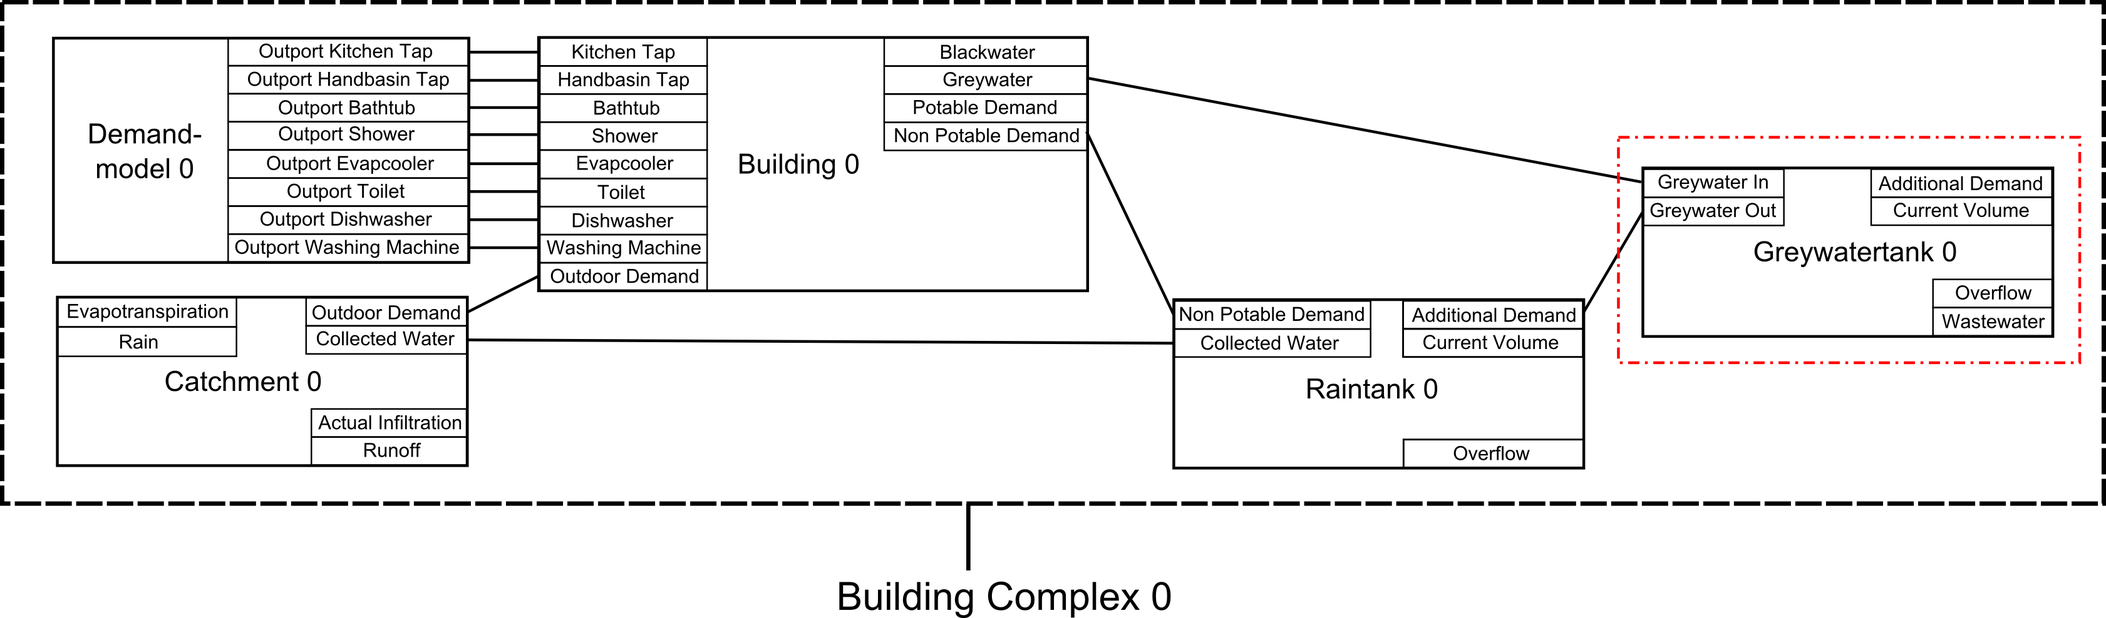
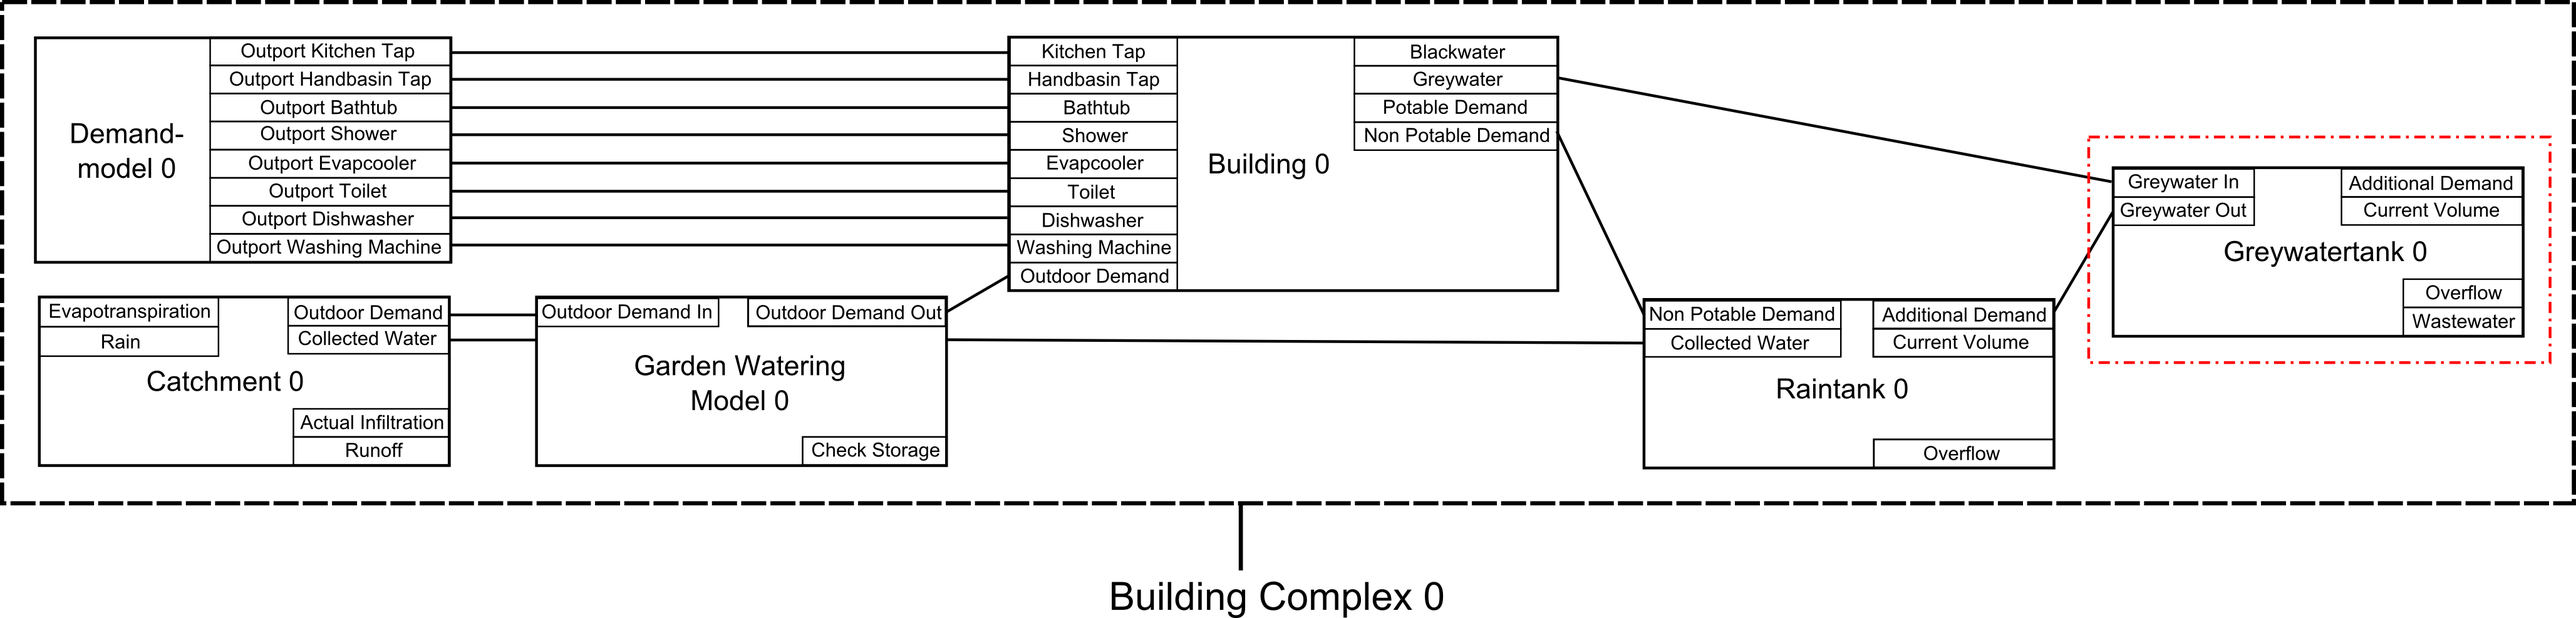
Update 6

diff --git a/doc/Model Set Up/XML - Creator.md b/doc/Model Set Up/XML - Creator.md
@@ -10,6 +10,7 @@ Basic features:
       - Greywaterreservoir Level
       - Stormwaterreservoir Level
       - Supply Level
+	  
  - basic and selective flowmeter implemetation
  # 
  - ...
@@ -23,9 +24,11 @@ Basic features:
 | :------------ |:---------------:|:---------------:|  	
 | Supplyvector      | Connectionlist | - |
 | Catchment Attributevector | Nodelist |  Catchment  |
-| Greywatertank Attributevector | Nodelist | Greywatertank   |
-| Stormwaterreservoir Attributevector | Nodelist | Stormwaterreservoir   |   
-| Rainwatertank Attributevector | Nodelist | Rainwatertank   |
+| Greywater Tank Attributevector | Nodelist | Greywater Tank   |
+| Greywater Reservoir Attributevector | Nodelist | Greywater Reservoir   |
+| Stormwater Reservoir Attributevector | Nodelist | Stormwater Reservoir   |   
+| Rainwater Tank Attributevector | Nodelist | Rainwater Tank   |
+| Garden Watering Attributevector | Nodelist | Garden Watering Module   |
 | Building Demand Attributevector | Nodelist | Demand Model  |  
 
 
@@ -180,15 +183,16 @@ To set the Catchments features this vectors ist used.
         Weighting Coefficient pA = [-]
 		Selected Model = [string]
         
+		
 For more detailed information regarding the input, output, etc. please check the
-[Catchment Description File](https://github.com/ChristianF88/CD3Waterbalance/blob/master/doc/catchment.md)
+[Catchment Description File](https://github.com/ChristianF88/CD3Waterbalance/blob/master/doc/CityDrain%20Building%20Blocks/Catchment%20Addon.md)
 
 
 <br>
 
-> ### Greywatertank Attributevector
+> ### Greywater Tank Attributevector
 
-This vector is responsible for setting the Greywatertanks/Greywaterreservoirs properties.
+This vector is responsible for setting the Greywatertanks properties.
 
 	Greywatertank Attributevector = [Greywatertankvector_0, Greywatertankvector_1, ..., Greywatertankvector_n]
     
@@ -199,12 +203,33 @@ This vector is responsible for setting the Greywatertanks/Greywaterreservoirs pr
         Yield of Treatment = [-]
         Storage Volume = [m^3]
 
+		
 For more detailed information regarding the input, output, etc. please check the
-[Greywatertank Description File](https://github.com/ChristianF88/CD3Waterbalance/blob/master/doc/greywatertank.md)
+[Greywatertank Description File](https://github.com/ChristianF88/CD3Waterbalance/blob/master/doc/CityDrain%20Building%20Blocks/Greywater%20Tank%20Addon.md)
 
 <br>
 
-> ### Stormwaterreservoir Attributevector
+
+> ### Greywater Reservoir Attributevector
+
+This vector is responsible for setting the Greywaterreservoirs properties.
+
+	Greywaterreservoir Attributevector = [Greywaterreservoirvector_0, Greywaterreservoirvector_1, ..., Greywaterreservoirvector_n]
+    
+    Greywaterreservoirvector =[Yield of Treatment, Storage Volume]
+    
+    Units:
+    	
+        Yield of Treatment = [-]
+        Storage Volume = [m^3]
+
+		
+For more detailed information regarding the input, output, etc. please check the
+[Greywaterreservoir Description File](https://github.com/ChristianF88/CD3Waterbalance/blob/master/doc/CityDrain%20Building%20Blocks/Greywater%20Reservoir%20Addon.md)
+
+<br>
+
+> ### Stormwater Reservoir Attributevector
 
 This vector is responsible for setting the Stormwaterreservoirs properties.
 
@@ -217,13 +242,14 @@ This vector is responsible for setting the Stormwaterreservoirs properties.
         Yield of Treatment = [-]
         Storage Volume = [m^3]
 
+		
 For more detailed information regarding the input, output, etc. please check the
-[Stormwaterreservoirs Description File](https://github.com/ChristianF88/CD3Waterbalance/blob/master/doc/stormwaterreservoir.md)
+[Stormwaterreservoirs Description File](https://github.com/ChristianF88/CD3Waterbalance/blob/master/doc/CityDrain%20Building%20Blocks/Stormwater%20Reservoir%20Addon.md)
 
 
 <br>
 
-> ### Rainwatertank Attributevector
+> ### Rainwater Tank Attributevector
 
 This vector contains the properties of all raintanks.
 
@@ -235,11 +261,41 @@ This vector contains the properties of all raintanks.
     
     	Storage Volume = [m^3]
     
+	
 For more detailed information regarding the input, output, etc. please check the
-[Rainwatertank Description File](https://github.com/ChristianF88/CD3Waterbalance/blob/master/doc/raintank.md)
+[Rainwatertank Description File](https://github.com/ChristianF88/CD3Waterbalance/blob/master/doc/CityDrain%20Building%20Blocks/Rainwater%20Tank%20Addon.md)
 
 
 <br>
+
+
+> ### Garden Watering Attributevector
+
+This vector contains the properties of all Garden Watering Modules.
+
+	Garden Watering Attributevector = [Gardenwateringvector_0, Gardenwateringvector_1, ..., Gardenwateringvector_n]
+    
+    Gardenwateringvector =[Average Watering Frequency, Deviation of Frequency, Maximal Watering Flow Rate, Smart Watering Start Time End Time, Watering Method]
+	
+    Units:
+    
+    	Average Watering Frequency = [d]
+		Deviation of Frequency = [d]
+		Maximal Watering Flow Rate = [L/min] 
+		Smart Watering Start Time End Time = [hh,hh] 
+		Watering Method = [String]
+		
+	For example:
+		
+		Garden Watering Attributevector = [[7,2,22,[18,6],"Smart Watering"],[14,5,18,[20,4],"Normal Watering"]]
+    
+	
+For more detailed information regarding the input, output, etc. please check the
+[Garden Watering Module Description File](https://github.com/ChristianF88/CD3Waterbalance/blob/master/doc/CityDrain%20Building%20Blocks/Garden%20Watering%20Addon.md)
+
+
+<br>
+
 
 > ### Building Demand Attributevector
 
@@ -248,7 +304,7 @@ A Buildings Water Demand depends on the number of units it consits out of. Furth
 	Building Demand Attributevector = [Buildingdemandvector_0, Buildingdemandvector_1, ..., Buildingdemandvector_n]
     
     Buildingdemandvector = [[number of people in residential unit 1, number of people in residential unit 2, ..., number of people in residential unit n],
-    						[number of people in commercial unit 1, number of people in commercial unit 2, ..., number of people in commercial unit n]]
+    						[number of people in commercial unit 1, number of people in commercial unit 2, ..., number of people in commercial unit n], Select Model]
 	
     
     length(Buildingdemandvector[0]) = number of residential units in building
@@ -258,10 +314,12 @@ A Buildings Water Demand depends on the number of units it consits out of. Furth
     Buildingdemandvector[0][i] = number of people in residential unit i
     
     Buildingdemandvector[1][i] = number of people in commercial unit i
+	
+	Select Model = [String]
     
     For example:
     
-    	Building Demand Attributevector = [[[4,5,2],[2]], [[6],[0]]]
+    	Building Demand Attributevector = [[[4,5,2],[2], 'Stochastic Model'], [[6],[0],'Stochastic Model']]
         
         The vector decribes 2 buildings. The first building consists out of 4 units. 3 residential and 1 commercial units.
         The first residential unit has 4 people living in it, the second one has 5 occupants and 2 people live in the 3rd 
@@ -270,7 +328,7 @@ A Buildings Water Demand depends on the number of units it consits out of. Furth
     
 
 For more detailed information regarding the input, output, etc. please check the
-[Demand Model Description File](https://github.com/ChristianF88/CD3Waterbalance/blob/master/doc/demandmodel.md)
+[Demand Model Description File](https://github.com/ChristianF88/CD3Waterbalance/blob/master/doc/CityDrain%20Building%20Blocks/Demand%20Model%20Addon.md)
 
 
 <br>
@@ -297,7 +355,7 @@ City Drain 3 need some basic information regarding the Simulation Setup.
 
 > ### Needtohaveinputs Vector
 
-This vector takes care of the input information for both [File Readers](https://github.com/ChristianF88/CD3Waterbalance/blob/master/doc/file_reader.md) and the [Pattern Implementer](https://github.com/ChristianF88/CD3Waterbalance/blob/master/doc/pattern_implementer.md). 
+This vector takes care of the input information for both [File Readers](https://github.com/ChristianF88/CD3Waterbalance/blob/master/doc/CityDrain%20Building%20Blocks/File%20Reader%20Addon.md) and the [Pattern Implementer](https://github.com/ChristianF88/CD3Waterbalance/blob/master/doc/CityDrain%20Building%20Blocks/Pattern%20Implementer%20Addon.md). 
 
 	Needtohaveinputs Vector = [Path of Rain File, Path of Evapotranspiration File, average Time of when the Sun is at its Zenith, average Time of Sundown]
     

diff --git a/doc/User Guide.md b/doc/User Guide.md
@@ -1,9 +1,11 @@
 # User Guide
 
-This text is supposed to give a short introduction for working with City Drain 3 using especially for the DAnCE4Water designed Python Addons. A detailled description to the City Drain software can be found [here](http://www.uibk.ac.at/umwelttechnik/teaching/phd/diss_achleitner.pdf).
+## Modules
 
-To be able to simulate urban water cycles in City Drain a few additonal modules were programmed.
-The folder _City Drain Building Blocks_  contains all addons programmed. Depending on how many modules are being used a the complexity of the built water system reaches from simple to very compley. The following table shows the programmed modules and their function.
+This text is supposed to give a short introduction for working with City Drain 3 using especially for the DAnCE4Water designed Python Addons. A detailed description to the City Drain software can be found [here](http://www.uibk.ac.at/umwelttechnik/teaching/phd/diss_achleitner.pdf).
+
+To be able to simulate urban water cycles in City Drain a few additional modules were programmed.
+The folder _City Drain Building Blocks_  contains all addons programmed. Depending on how many modules are being used a the complexity of the built water system reaches from simple to very complex. The following table shows the programmed modules and their function. By clicking on a modules name a more detailed description will be shown.
 
 |Module|Function|
 |:----:|:-----:|
@@ -16,10 +18,73 @@ The folder _City Drain Building Blocks_  contains all addons programmed. Dependi
 |[Garden Watering Addon](https://github.com/ChristianF88/CD3Waterbalance/blob/master/doc/CityDrain%20Building%20Blocks/Garden%20Watering%20Addon.md)| generates garden watering events |
 |[Greywater Reservoir Addon](https://github.com/ChristianF88/CD3Waterbalance/blob/master/doc/CityDrain%20Building%20Blocks/Greywater%20Reservoir%20Addon.md)| stores greywater for nonpotabel demand |
 |[Greywater Tank Addon](https://github.com/ChristianF88/CD3Waterbalance/blob/master/doc/CityDrain%20Building%20Blocks/Greywater%20Tank%20Addon.md)| stores greywater for nonpotabel demand |
-|[Pattern Implementer Addon](https://github.com/ChristianF88/CD3Waterbalance/blob/master/doc/CityDrain%20Building%20Blocks/Pattern%20Implementer%20Addon.md)| creates a normal distributed evapotranspiration pattern from constant data |
+|[Pattern Implementer Addon](https://github.com/ChristianF88/CD3Waterbalance/blob/master/doc/CityDrain%20Building%20Blocks/Pattern%20Implementer%20Addon.md)| creates a evapotranspiration pattern from constant data |
 | [Rainwater Tank Addon](https://github.com/ChristianF88/CD3Waterbalance/blob/master/doc/CityDrain%20Building%20Blocks/Rainwater%20Tank%20Addon.md)| stores rainwater for nonpotabel demand |
 | [Sewer, Stromdrain, Potable Water Reservoir Addon](https://github.com/ChristianF88/CD3Waterbalance/blob/master/doc/CityDrain%20Building%20Blocks/Sewer%2C%20Stormdrain%20and%20Potable%20Water%20Reservoir%20Addon.md.md)| end of the line modules that state where water ends up |
 |[Stormwater Reservoir Addon](https://github.com/ChristianF88/CD3Waterbalance/blob/master/doc/CityDrain%20Building%20Blocks/Stormwaterreservoir%20Addon.md)| stores stormwater for nonpotabel demand |
+
+<br> 
+
+The Blocks are designed to be connected in a certain way. The inports and outports names should give sufficient information for connecting the blocks correctly. Due to City Drains Top Down modelling approach a few limitations must be considered. The signal can only be passed on. The modules are not meant to circle a signal between 2 blocks within one time step. 
+Thus a Rainwater Tank connected to a building, will always get the signal to supply the building with water, even when it is empty. (The building doesn't know that's the Tank is empty.) In case the Tank is empty, the signal will be passed on to another Tank or the Potable Water Reservoir. All storage modules have the same outport name for this scenario. It's called _Additional Demand_. 
+
+Another City Drain Block that is being used is the so called FileOut. It's a standard block and enable allows to export data from the model platform to a text document. This document contains the flow quantity and quality information for every simulation time step.
+
+
+
+## Set up a Model
+
+To be able to set up a large system a number of python scripts were created. The so called [XML-Creator](https://github.com/ChristianF88/CD3Waterbalance/blob/master/doc/Model%20Set%20Up/XML%20-%20Creator.md) will generate a xml-file that contains all necessary information for an City Drain Model. 
+The general set-up of an City Drain model file is the following:
+
+The top contains the information about the general setting like the implemented modules, the simulations time step, start date and end date of simulation. 
+The next segment, the so called Node List, contains all the used modules including their attributes (like the area for a catchment).
+The last section shows all connections the model has. A connection equals the way a signal travels. The outport of one block will be connected with an inport of another block.
+
+The XML-Creator routine creates a file that has this exact shape. 
+
+
+## Run a Model
+
+Due to City Drains unstable GUI the program will be executed with python. The python script [To XML Creator modified Simulator](https://github.com/ChristianF88/CD3Waterbalance/blob/master/doc/Model%20Set%20Up/To_XML_Creator_modified_Simulator.md) runs City Drain with a specified xml-file.
+Furthermore it's able to create a simple water balance for checking the models accuracy as well as plotting any given txt-file. The Balance and Plotting function can only be used if the necessary FileOuts were created and the functions  are set correctly.
+
+
+## Interface Script
+
+The [Interface File]() unites the XML-Creator and the Simulator. In this file all necessary adjustments can be made and model inputs can be set. 
+
+
+
+
+
+
+
+
+
+
+
+
+
+
+
+
+
+
+
+
+
+
+
+
+
+
+
+
+
+
+
+
 
 
 
